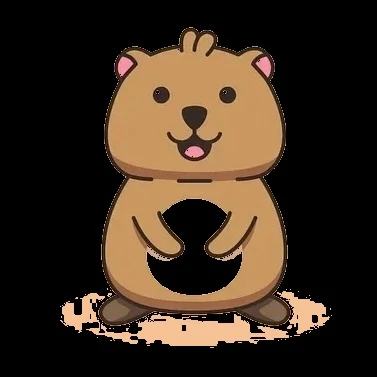
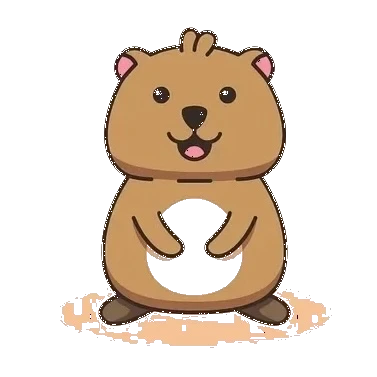
style(home-content)🎨: Update QuokkaAvatar size and remove subtitle in HomeContent
- Increase QuokkaAvatar size from 100 to 160 for a more prominent hero image
- Remove the subtitle paragraph under the main title for a cleaner look
- Update q-tip.webp image asset

diff --git a/src/app/components/HomeContent.tsx b/src/app/components/HomeContent.tsx
@@ -9,13 +9,10 @@ export function HomeContent() {
     <div className="flex flex-col gap-6">
       {/* Hero: Q-tip + title */}
       <section className="flex flex-col items-center gap-2 text-center">
-        <QuokkaAvatar size={100} aria-hidden={false} />
+        <QuokkaAvatar size={160} aria-hidden={false} />
         <h1 className="text-2xl font-bold tracking-tight text-[var(--text)] sm:text-3xl">
           Trip Assistant
         </h1>
-        <p className="text-sm text-[var(--text-muted)]">
-          Your calendar, contacts, meetings, trains, and todos in one place.
-        </p>
       </section>
 
       {/* Inline chat (same UI as panel) */}
